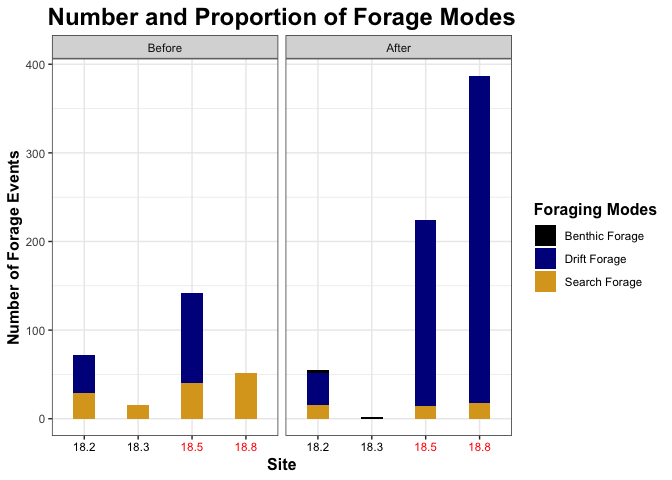
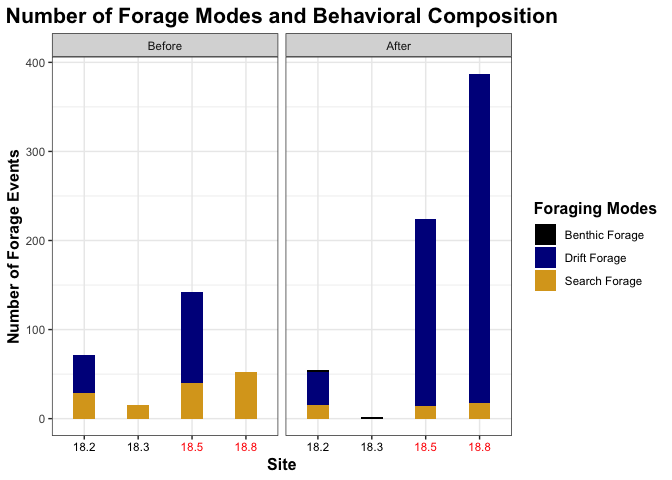
sdf

diff --git a/SRF-VidSync.md b/SRF-VidSync.md
@@ -41,6 +41,7 @@ library(tidyverse)
 
 ``` r
 library(ggplot2)
+
 library(lubridate)
 ```
 
@@ -901,11 +902,11 @@ Forage_Types_Plot <-
   facet_grid(.~sample_event1) +
   xlab("Site") +
   ylab("Number of Forage Events") +
-  ggtitle("Number and Proportion of Forage Modes") +
+  ggtitle("Number of Forage Modes and Behavioral Composition") +
   scale_fill_manual(values = c("black", "darkblue", "goldenrod")) +
   guides(fill=guide_legend(title="Foraging Modes")) +
   theme_bw() +
-  theme(legend.title = element_text(size = 12, face = "bold"), plot.title = element_text(size = 18, face = "bold", hjust = 0.5), axis.title.x = element_text(size = 12, face = "bold"), axis.title.y = element_text(size = 12, face = "bold"), axis.text.x = element_text(colour = c("black", "black", "red", "red", "black", "black", "red", "red")))
+  theme(legend.title = element_text(size = 12, face = "bold"), plot.title = element_text(size = 16, face = "bold", hjust = 0.5), axis.title.x = element_text(size = 12, face = "bold"), axis.title.y = element_text(size = 12, face = "bold"), axis.text.x = element_text(colour = c("black", "black", "red", "red", "black", "black", "red", "red")))
 Forage_Types_Plot
 ```
 
@@ -1010,29 +1011,53 @@ Fish_Dataset
 
 ``` r
 Mean_Total_Volume_Dataset <- Fish_Dataset %>% 
-  select(sample_event, site, Mean_Total_Volume_Occupied_cm3, Mean_Total_Forage_Volume_Occupied_cm3, num_fish_in_subsample) %>% 
-  distinct(Total_Volume_Occupied, .keep_all = TRUE)
+  select(sample_event, site, subsample, index, volume_occupied_all_cm3) %>%
+  distinct(index, .keep_all = TRUE) %>% 
+  na.omit() %>% 
+  group_by(sample_event, site, subsample) %>% 
+  mutate(avg_volume_subsample = mean(volume_occupied_all_cm3)) %>% 
+  ungroup() %>% 
+  group_by(sample_event, site) %>% 
+  mutate(avg_volume_sample = mean(volume_occupied_all_cm3)) %>% 
+  mutate(total_volume_sample = sum(avg_volume_subsample)) %>% 
+  mutate(one = 1) %>% 
+  add_tally(one)
+Mean_Total_Volume_Dataset
 ```
 
-    ## Warning: Trying to compute distinct() for variables not found in the data:
-    ## - `Total_Volume_Occupied`
-    ## This is an error, but only a warning is raised for compatibility reasons.
-    ## The operation will return the input unchanged.
+    ## # A tibble: 113 x 10
+    ## # Groups:   sample_event, site [8]
+    ##    sample_event site  subsample index volume_occupied… avg_volume_subs…
+    ##    <chr>        <chr>     <dbl> <dbl>            <dbl>            <dbl>
+    ##  1 Before       18.2          1     1          54.3             54.3   
+    ##  2 Before       18.2          2     3           2.95           104.    
+    ##  3 Before       18.2          2     4         206.             104.    
+    ##  4 Before       18.2          3     8          45.9             43.3   
+    ##  5 Before       18.2          3     9          40.6             43.3   
+    ##  6 Before       18.2          4     7          80.6             43.8   
+    ##  7 Before       18.2          4    11           7.01            43.8   
+    ##  8 Before       18.3          1     1           3.57             1.79  
+    ##  9 Before       18.3          1     2           0.0054           1.79  
+    ## 10 Before       18.3          2     4           0.0106           0.0106
+    ## # ... with 103 more rows, and 4 more variables: avg_volume_sample <dbl>,
+    ## #   total_volume_sample <dbl>, one <dbl>, n <dbl>
 
 ``` r
 Mean_Total_Volume_Dataset$sample_event <- factor(Mean_Total_Volume_Dataset$sample_event, levels = c("Before", "After"))
   
 Total_Volume_Plot <- 
   ggplot(Mean_Total_Volume_Dataset) +
-  geom_bar(aes(x = site, y = Mean_Total_Volume_Occupied_cm3, fill = sample_event, width = 0.5), position = position_dodge(), stat = "identity") +
+  geom_col(aes(x = site, y = sum(volume_occupied_all_cm3), fill = sample_event, width = 0.5), stat = "identity", position = position_dodge()) +
   theme_bw() +
   guides(fill=guide_legend(title = "Augmentation\nPeriod")) +
   scale_fill_manual(values = c("goldenrod", "darkblue")) +
   xlab("Site") +
   ylab("Volume Occupied (cm^3)") +
-  ggtitle("Total Volume Occupied by Present Salmonids in Pool Head Patch") +
+  ggtitle("Total Volume Occupied by Salmonids in Pool Head") +
   theme(axis.title.x = element_text(face = "bold", size = 14), axis.title.y = element_text(face = "bold", size = 14), legend.title = element_text(face = "plain", size = 14), plot.title = element_text(face = "bold", size = 16, hjust = 0.25), axis.text.x = element_text(colour = c("black", "black", "red", "red")))
 ```
+
+    ## Warning: Ignoring unknown parameters: stat
 
     ## Warning: Ignoring unknown aesthetics: width
 
@@ -1049,16 +1074,31 @@ NND_Graph_Dataset <- Fish_Dataset %>%
   select(sample_event, site, subsample, mean_nnd, median_nnd) %>% 
   distinct(mean_nnd, .keep_all = TRUE) %>% 
   na.omit() %>% 
-  group_by(sample_event, site) %>% 
-  mutate(mean_nnd = base::mean(mean_nnd)) %>% 
-  mutate(median_nnd = base::mean(median_nnd)) %>% 
-  select(sample_event, site, mean_nnd, median_nnd) %>% 
-  distinct(.keep_all = TRUE)
+  group_by(sample_event, site) #%>% 
+  #mutate(mean_nnd = base::mean(mean_nnd)) %>% 
+  #mutate(median_nnd = base::mean(median_nnd)) %>% 
+  #select(sample_event, site, mean_nnd, median_nnd) %>% 
+  #distinct(.keep_all = TRUE)
+
+NND_Graph_Dataset$sample_event <- factor(NND_Graph_Dataset$sample_event, levels = c("Before", "After"))
 
 NND_Graph <- 
-  ggplot(NND_Graph_Dataset) + 
-  geom_bar(aes(x = site, y = median_nnd, fill = sample_event), position = position_dodge() ,stat = "identity")
+  ggplot(NND_Graph_Dataset, aes(x = site, y = median_nnd, fill = sample_event), position = position_dodge(), stat = "identity") + 
+  geom_boxplot(outlier.colour = "black", outlier.shape = 16, outlier.size = FALSE) + 
+  theme_bw() +
+  guides(fill=guide_legend(title = "Sample Event")) +
+  xlab("Site") +
+  ylab("Distance (cm)") +
+  ggtitle("Nearest Neighbor Distance (NND)") +
+  scale_color_manual(values = "white") +
+  scale_fill_manual(values = c("goldenrod", "darkblue")) +
+  theme(axis.title.x = element_text(face = "bold", size = 15), axis.text.x = element_text(colour = c("black", "black", "red", "red")), plot.title = element_text(face = "bold", size = 20, hjust = 0.5), axis.title.y = element_text(face = "bold", size = 15))
+NND_Graph
 ```
+
+![](SRF-VidSync_files/figure-markdown_github/unnamed-chunk-14-1.png)
+
+#### Distance Per Time Graph
 
 ### Volume Dataset Calculations
 
@@ -1817,7 +1857,7 @@ Natural_PorterCreek_Hydrograph <-
 Natural_PorterCreek_Hydrograph
 ```
 
-![](SRF-VidSync_files/figure-markdown_github/unnamed-chunk-20-1.png)
+![](SRF-VidSync_files/figure-markdown_github/unnamed-chunk-21-1.png)
 
 ``` r
 PorterCreek_Augmentation <- 
@@ -1830,7 +1870,7 @@ PorterCreek_Augmentation <-
 PorterCreek_Augmentation
 ```
 
-![](SRF-VidSync_files/figure-markdown_github/unnamed-chunk-20-2.png)
+![](SRF-VidSync_files/figure-markdown_github/unnamed-chunk-21-2.png)
 
 ``` r
 Augmented_PorterCreek_Hydrograph <- 
@@ -1843,7 +1883,7 @@ Augmented_PorterCreek_Hydrograph <-
 Augmented_PorterCreek_Hydrograph
 ```
 
-![](SRF-VidSync_files/figure-markdown_github/unnamed-chunk-20-3.png)
+![](SRF-VidSync_files/figure-markdown_github/unnamed-chunk-21-3.png)
 
 ``` r
 RCT_DO_Graph <- 
@@ -1865,7 +1905,7 @@ RCT_DO_Graph
     ## `geom_smooth()` using method = 'loess' and formula 'y ~ x'
     ## `geom_smooth()` using method = 'loess' and formula 'y ~ x'
 
-![](SRF-VidSync_files/figure-markdown_github/unnamed-chunk-20-4.png)
+![](SRF-VidSync_files/figure-markdown_github/unnamed-chunk-21-4.png)
 
 ``` r
 WaterTemp_PorterCreek <- 
@@ -1874,7 +1914,7 @@ WaterTemp_PorterCreek <-
 WaterTemp_PorterCreek
 ```
 
-![](SRF-VidSync_files/figure-markdown_github/unnamed-chunk-20-5.png)
+![](SRF-VidSync_files/figure-markdown_github/unnamed-chunk-21-5.png)
 
 Final SRF Dataset
 =================
